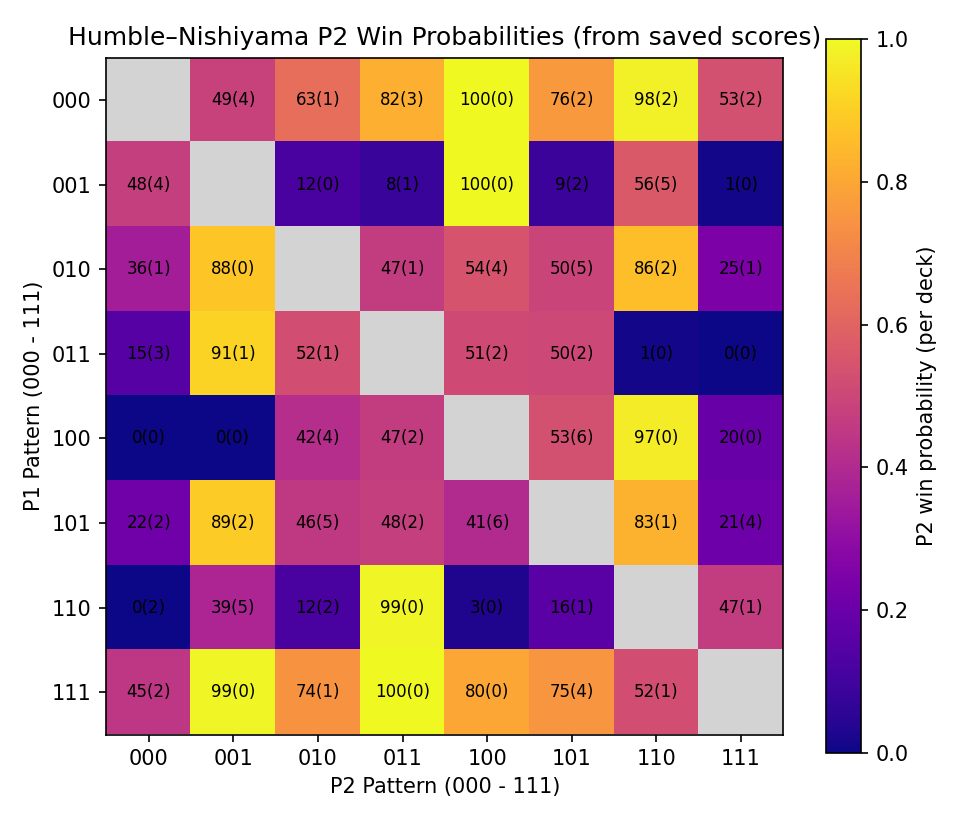
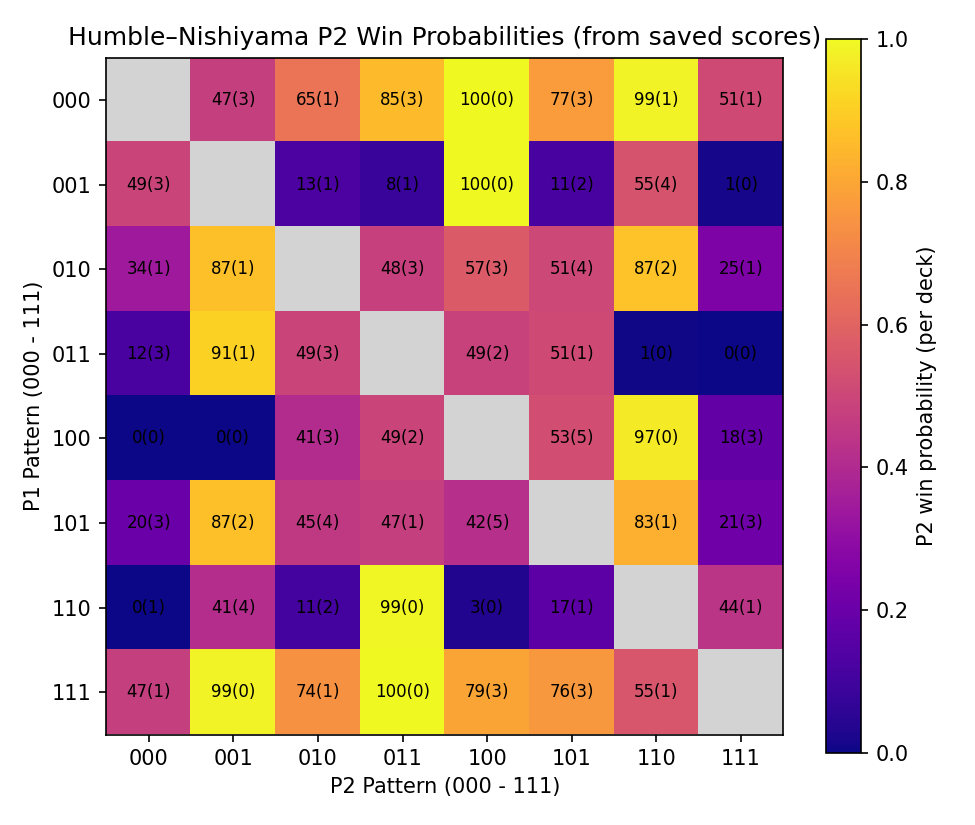
Update CSV file function

diff --git a/Card_Game/src/score_data.py b/Card_Game/src/score_data.py
@@ -1,5 +1,10 @@
-import numpy as np
+import csv
+from collections.abc import Mapping
+from pathlib import Path
 from typing import Tuple
+
+import numpy as np
+
 from src.gen_data import get_decks
 
 def _count_both(deck: np.ndarray, p1: np.ndarray, p2: np.ndarray) -> Tuple[int, int]:
@@ -125,7 +130,7 @@ def p2_win_prob_matrix(n_games: int = 100, base_seed: int = 2024) -> np.ndarray:
         for i in range(8):
             for j in range(8):
                 if i == j:
-                    continue
+                    continue #Skip diagonal 
                 p1c, p2c = _count_both(deck, patterns[i], patterns[j])
                 game_cnt[i, j] += 1
                 if p2c > p1c:
@@ -178,3 +183,152 @@ def p2_win_prob_from_mats(
     tie_probs = tie_counts / float(n)
     tie_probs[np.eye(8, dtype=bool)] = np.nan
     return win_probs, tie_probs
+
+
+def _load_scores_payload(path: str) -> Mapping[str, np.ndarray] | np.ndarray:
+    """Return either a mapping of score variants or a raw matrix array."""
+
+    obj = np.load(path, allow_pickle=True)
+    try:
+        if isinstance(obj, np.lib.npyio.NpzFile):
+            #Materialize to a standard dict so the file can be safely closed.
+            return {key: obj[key] for key in obj.files}
+
+        if isinstance(obj, np.ndarray) and obj.dtype == object:
+            try:
+                candidate = obj.item()
+            except ValueError as exc:  # pragma: no cover - defensive guard
+                raise ValueError(
+                    "Object array must contain a single mapping with score entries"
+                ) from exc
+            if isinstance(candidate, Mapping):
+                return candidate
+        return np.asarray(obj)
+    finally:
+        if isinstance(obj, np.lib.npyio.NpzFile):
+            obj.close()
+
+
+def _resolve_score_array(
+    payload: Mapping[str, np.ndarray] | np.ndarray, *, key: str,)-> np.ndarray | None:
+    """Extract an array from a payload, returning ``None`` if the key is absent."""
+
+    if isinstance(payload, Mapping):
+        if key not in payload:
+            return None
+        return np.asarray(payload[key])
+    return np.asarray(payload) if key == "score_humble_nishiyama" else None
+
+
+def export_hn_scores_to_csv(
+    scores_file: str,
+    *,
+    cards_scores_file: str | None = None,
+    out_csv: str | None = None,) -> str:
+    """
+    Convert scores to CSV file. 
+    Counts also p1 win's to check if wins, losses, and ties adds up to n
+    """
+
+    payload = _load_scores_payload(scores_file)
+    tricks = _resolve_score_array(payload, key="score_humble_nishiyama")
+    cards = _resolve_score_array(payload, key="score_humble_nishiyama_cards")
+
+    if tricks is None:
+        raise ValueError(
+            "Could not locate 'score_humble_nishiyama' matrices in the supplied file"
+        )
+
+    if cards is None:
+        if cards_scores_file is None:
+            raise ValueError(
+                "Card-count matrices missing. Provide 'cards_scores_file' or bundle "
+                "them alongside the trick-count data."
+            )
+        secondary_payload = _load_scores_payload(cards_scores_file)
+        cards = _resolve_score_array(
+            secondary_payload, key="score_humble_nishiyama_cards"
+        )
+        if cards is None:
+            cards = _resolve_score_array(
+                secondary_payload, key="score_humble_nishiyama"
+            )
+            if cards is None:
+                raise ValueError(
+                    "Could not locate card-count matrices in supplemental file"
+                )
+
+    if tricks.shape != cards.shape:
+        raise ValueError(
+            "Score matrices for tricks and cards must have identical shapes; "
+            f"received {tricks.shape} vs {cards.shape}."
+        )
+    if tricks.ndim != 3 or tricks.shape[1] != tricks.shape[2]:
+        raise ValueError(
+            "Score matrices must have shape (n_decks, 8, 8) with square matchup grids."
+        )
+
+    n_decks, n_patterns, _ = tricks.shape
+    bit_width = max(1, len(format(n_patterns - 1, "b")))
+    pattern_labels = [format(idx, f"0{bit_width}b") for idx in range(n_patterns)]
+
+    base_path = Path(scores_file)
+    out_path = Path(out_csv) if out_csv is not None else base_path.with_name(
+        f"{base_path.stem}_summary.csv"
+    )
+    out_path.parent.mkdir(parents=True, exist_ok=True)
+
+    headers = [
+        "deck_index",
+        "p1_index",
+        "p1_pattern",
+        "p2_index",
+        "p2_pattern",
+        "deck_count",
+        "score_humble_nishiyama_p1_wins",
+        "score_humble_nishiyama_p2_wins",
+        "score_humble_nishiyama_draws",
+        "score_humble_nishiyama_cards_p1_wins",
+        "score_humble_nishiyama_cards_p2_wins",
+        "score_humble_nishiyama_cards_draws",
+    ]
+
+    with out_path.open("w", newline="", encoding="utf-8") as fh:
+        writer = csv.writer(fh)
+        writer.writerow(headers)
+
+        for p1_idx in range(n_patterns):
+            for p2_idx in range(n_patterns):
+                if p1_idx == p2_idx:
+                    continue
+
+                trick_p1 = tricks[:, p1_idx, p2_idx]
+                trick_p2 = tricks[:, p2_idx, p1_idx]
+                cards_p1 = cards[:, p1_idx, p2_idx]
+                cards_p2 = cards[:, p2_idx, p1_idx]
+
+                trick_p1_wins = int(np.sum(trick_p1 > trick_p2))
+                trick_p2_wins = int(np.sum(trick_p2 > trick_p1))
+                trick_draws = int(np.sum(trick_p1 == trick_p2))
+
+                cards_p1_wins = int(np.sum(cards_p1 > cards_p2))
+                cards_p2_wins = int(np.sum(cards_p2 > cards_p1))
+                cards_draws = int(np.sum(cards_p1 == cards_p2))
+
+                writer.writerow(
+                    [
+                        p1_idx,
+                        pattern_labels[p1_idx],
+                        p2_idx,
+                        pattern_labels[p2_idx],
+                        n_decks,
+                        trick_p1_wins,
+                        trick_p2_wins,
+                        trick_draws,
+                        cards_p1_wins,
+                        cards_p2_wins,
+                        cards_draws,
+                    ]
+                )
+
+    return str(out_path)

diff --git a/Card_Game/src/run_tests.py b/Card_Game/src/run_tests.py
@@ -2,7 +2,11 @@ import os
 import numpy as np
 
 from src.gen_data import get_decks, save_decks
-from src.score_data import score_humble_nishiyama, score_humble_nishiyama_cards
+from src.score_data import (
+    export_hn_scores_to_csv,
+    score_humble_nishiyama,
+    score_humble_nishiyama_cards,
+)
 from src.viz_data import save_p2_win_prob_heatmap_from_mats
 
 
@@ -20,7 +24,7 @@ def _save_scores(array: np.ndarray, filename: str) -> str:
 
 
 def main() -> None:
-    n_decks = 101
+    n_decks = 150
     seed = 2024
 
     decks = get_decks(n_decks, seed)
@@ -29,8 +33,13 @@ def main() -> None:
     mats_tricks = np.stack([score_humble_nishiyama(deck) for deck in decks])
     mats_cards = np.stack([score_humble_nishiyama_cards(deck) for deck in decks])
 
-    tricks_path = _save_scores(mats_tricks, "scores_tricks_100.npy")
-    cards_path = _save_scores(mats_cards, "scores_cards_100.npy")
+    tricks_path = _save_scores(mats_tricks, "scores_tricks_150.npy")
+    cards_path = _save_scores(mats_cards, "scores_cards_150.npy")
+    csv_path = export_hn_scores_to_csv(
+        tricks_path,
+        cards_scores_file=cards_path,
+        out_csv=os.path.join(_data_dir(), "scores_combined_150.csv"),
+    )
 
     tricks_fig = save_p2_win_prob_heatmap_from_mats(
         mats_tricks, filename="p2_win_tricks_test.png"
@@ -42,6 +51,7 @@ def main() -> None:
     print(f"Saved decks to: {deck_files}")
     print(f"Saved trick-count matrices to: {tricks_path}")
     print(f"Saved card-count matrices to: {cards_path}")
+    print(f"Saved combined CSV to: {csv_path}")
     print(f"Saved P2 win heatmap (tricks) to: {tricks_fig}")
     print(f"Saved P2 win heatmap (cards) to: {cards_fig}")
 
